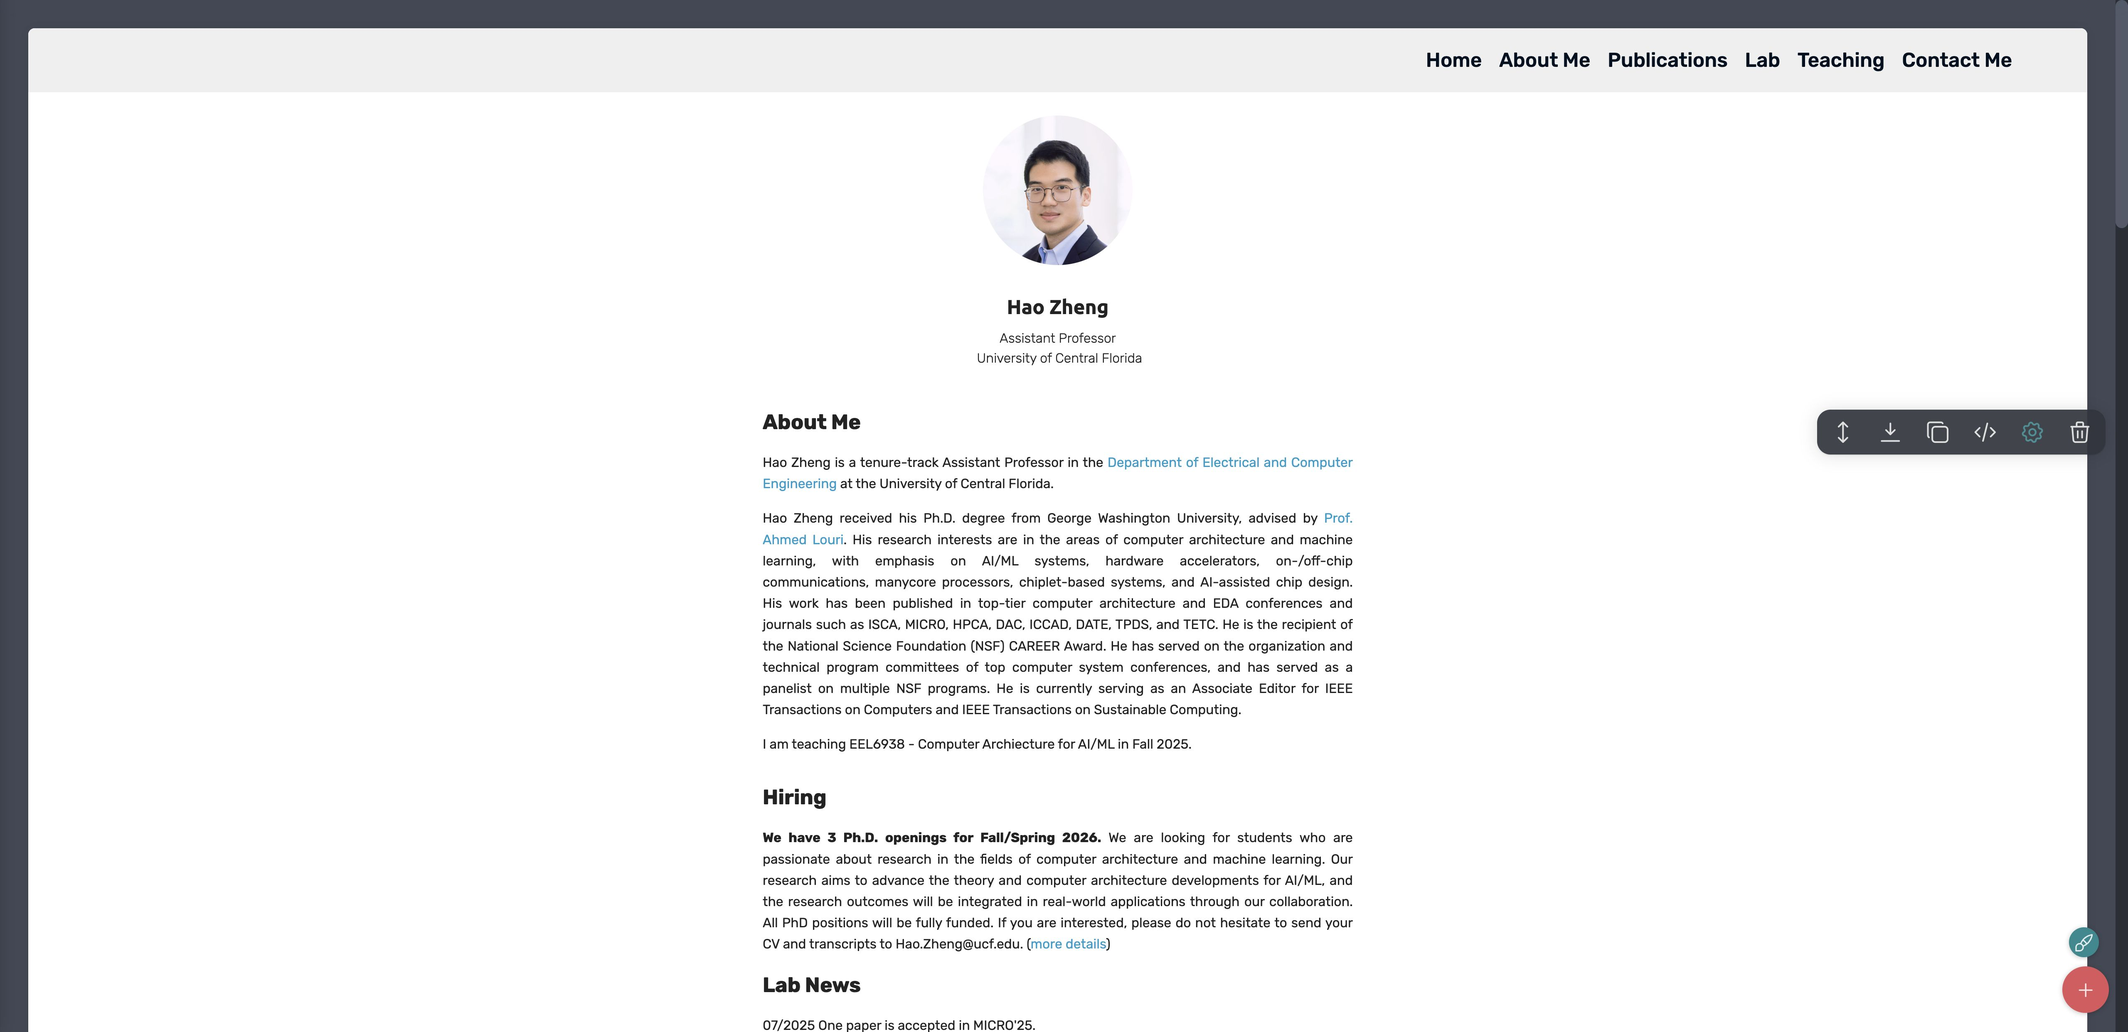
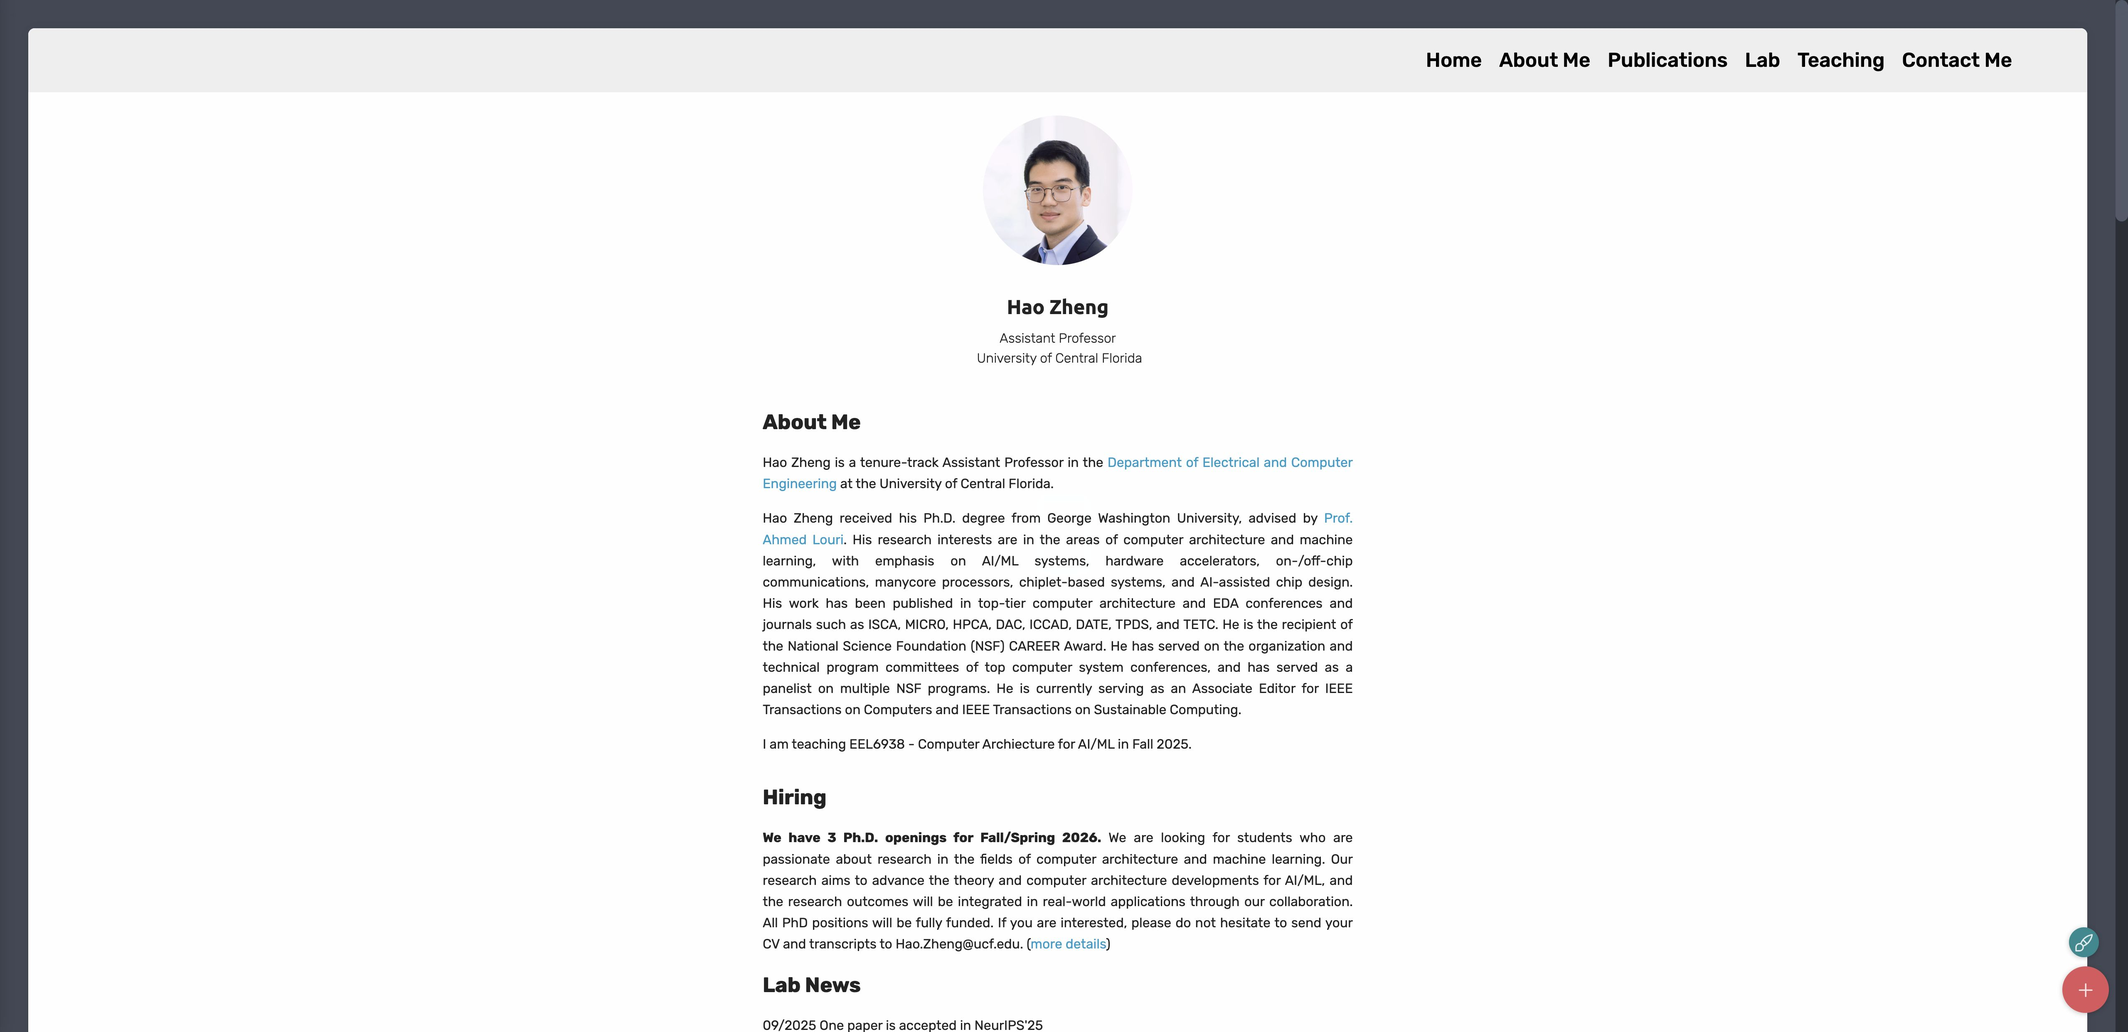
v3.9.8

Changed region(s): [[0.8438, 0.372, 1.0, 0.465], [0.3438, 0.9919, 0.5, 1.0]]

diff --git a/index.html b/index.html
@@ -22,7 +22,7 @@
   <noscript><link rel="stylesheet" href="https://fonts.googleapis.com/css?family=Ubuntu:300,300i,400,400i,500,500i,700,700i&display=swap"></noscript>
   <link rel="preload" href="https://fonts.googleapis.com/css?family=Rubik:300,400,500,600,700,800,900,300i,400i,500i,600i,700i,800i,900i&display=swap" as="style" onload="this.onload=null;this.rel='stylesheet'">
   <noscript><link rel="stylesheet" href="https://fonts.googleapis.com/css?family=Rubik:300,400,500,600,700,800,900,300i,400i,500i,600i,700i,800i,900i&display=swap"></noscript>
-  <link rel="preload" as="style" href="assets/mobirise/css/mbr-additional.css?v=S4XTxj"><link rel="stylesheet" href="assets/mobirise/css/mbr-additional.css?v=S4XTxj" type="text/css">
+  <link rel="preload" as="style" href="assets/mobirise/css/mbr-additional.css?v=RoHz3v"><link rel="stylesheet" href="assets/mobirise/css/mbr-additional.css?v=RoHz3v" type="text/css">
 
   
   
@@ -157,7 +157,7 @@
 
     <div class="container">
         <div class="media-container-row">
-            <div class="mbr-text col-12 mbr-fonts-style display-7 col-md-8" style="text-align: justify;"><p style="font-size:25px"><strong>Selected Publications</strong></p><p><strong style="font-size: 1rem;">[NeurIPS'25]</strong><span style="font-size: 1rem;"> Amir Ghazizadeh Ahsaei, Rickard Ewetz, Hao Zheng “GAMMA: Gated Multi-hop Message Passing for Homophily-Agnostic Node Representation in GNNs”, in Proceedings of Annual Conference on Neural Information Processing Systems (NeurIPS), San Diego, CA, December 2-7, 2025.</span></p><p><strong style="font-size: 1rem;">[MICRO'25] </strong><span style="font-size: 1rem;">Amir Ghazizadeh Ahsaei</span><span style="font-size: 1rem;">, Lingxiang Yin, Shilin Tian, Fangzhou Ye, Fan Yao, Hao Zheng “Rethinking Tiling and Dataflow for SpMM Acceleration: A Graph Transformation Framework”, in Proceedings of IEEE/ACM International Symposium on Microarchitecture (MICRO), Seoul, South Korea, October 2025.</span></p><p><strong style="font-size: 1rem;">[ISCA'25] </strong><span style="font-size: 1rem;">Jiaqi Yang, Hao Zheng, and Ahmed Louri, “DiTile-DGNN: An Efficient Accelerator for Distributed Dynamic Graph Neural Network Inference”, in Proceedings of ACM/IEEE International Symposium on Computer Architecture (ISCA), Tokyo, Japan, June 2025.</span></p><p><strong style="font-size: 1rem;">[HPCA'25] </strong><span style="font-size: 1rem;">Jiaqi Yang, Hao Zheng, and Ahmed Louri,</span><span style="font-size: 1rem;">&nbsp;“I-DGNN: A Graph Dissimilarity-based Framework for Designing Scalable and Efficient DGNN Accelerators”, in Proceedings of IEEE International Symposium on High-Performance Computer Architecture (HPCA), Las Vegas, NV, March 2025.</span></p><p><strong style="font-size: 1rem;">[MICRO'24] </strong><span style="font-size: 1rem;">Lingxiang Yin, Sanjay Gandham, Mingjie Lin, Hao Zheng, “SCALE: A Structure-Centric Accelerator for Message Passing Graph Neural Networks”, in Proceedings of IEEE/ACM International Symposium on Microarchitecture (MICRO), Austin, Texas, November 2-6, 2024.&nbsp;</span></p><p><span style="font-size: 1rem;"><strong>[ICCAD'24]</strong> Sanjay Gandham, Joe Walston, Sourav Samanta, Lingxiang Yin, Hao Zheng, Mingjie Lin, Stelios Diamantidis, "CircuitSeer: RTL Post-PnR Delay Prediction via Coupling Functional and Structural Representation", in Proceedings of ACM/IEEE International Conference on Computer-Aided Design (ICCAD), New Jersey, USA, Oct 27-21, 2024.&nbsp;</span></p><p><span style="font-size: 1rem;"><strong>[DAC'24]</strong> Fangzhou Ye, Lingxiang Yin, Amir Ghazizadeh Ahsaei, Hao Zheng "EGMA: Enhancing Data Reuse and Workload Balancing in Message Passing GNN Acceleration via Gram Matrix Optimization", in Proceedings of 61th Design Automation Conference (DAC’24), San Francisco, June 23-27, 2024.&nbsp;</span></p><p><span style="font-size: 1rem;"><strong>[DAC'24] </strong>Shilin Tian, Chase Szafranski, Ce Zheng, Fan Yao, Ahmed Louri,  Chen Chen, Hao Zheng "VITA: ViT Acceleration for Efficient 3D Human Mesh Recovery via Hardware-Algorithm Co-Design", in Proceedings of 61th Design Automation Conference (DAC’24), San Francisco, June 23-27, 2024.&nbsp;</span></p><p><strong style="font-size: 1rem;">[ICCAD'23] </strong><span style="font-size: 1rem;">Lingxiang Yin, Amir Ghazizadeh, Ahmed Louri, Hao Zheng, "ARIES: Accelerating Distributed Training in Chiplet-based Systems via Flexible Interconnects", &nbsp;in Proceedings of International Conference on Computer-Aided Design (ICCAD), San Francisco, CA, October 29 - November 2, 2023.&nbsp;</span></p><p><strong style="font-size: 1rem;">[ICCAD'23]&nbsp;</strong><span style="font-size: 1rem;">Sanjay Gandham*, Lingxiang Yin*, Hao Zheng, Mingjie Lin, ''SAGA: Sparsity-Agnostic Graph Convolutional Network Acceleration with Near-optimal Workload Balance", &nbsp;in Proceedings of International Conference on Computer-Aided Design (ICCAD), San Francisco, CA, October 29 - November 2, 2023. &nbsp;(* Co-first Authors)</span></p><p><span style="font-size: 1rem;"><strong>[ICCAD'23]</strong> Muhammad Rashedul Haq Rashed, Sven Thijssen, Hao Zheng, Sumit Kumar Jha, Rickard Ewetz, ''Path-based Processing using In-Memory Systolic Arrays for Accelerating Data-Intensive Applications", in proceedings of International Conference on Computer-Aided Design (ICCAD), San Francisco, CA, October 29 - November 2, 2023.</span></p><p><strong style="font-size: 1rem;">[DAC'23] </strong><span style="font-size: 1rem;">Jiaqi Yang,</span><strong style="font-size: 1rem;">&nbsp;</strong><span style="font-size: 1rem;">Hao Zheng, and Ahmed Louri, “Venus: A Versatile Deep Neural Network Accelerator Architecture Design for Multiple Applications,” in Proceedings of 60th Design Automation Conference (DAC’23), San Francisco, July 9-13, 2023.</span><br></p><p><span style="font-size: 1rem;"><strong>[ISCA'23]</strong> Jiajun Li, Yuxuan Zhang, Hao Zheng, and Ke Wang, “ FDMAX: An Elastic Accelerator Architecture for Solving Partial Differential Equations,” &nbsp;in Proceedings of 50th International Symposium on Computer Architecture (ISCA'50), Orlando, FL, June 17–21, 2023.</span></p><p><strong>[HPCA'21] </strong>Hao Zheng, Ke Wang, and Ahmed Louri, "Adapt-NoC: A Flexible Network-on-Chip Design for Heterogeneous Manycore Architecture", in Proceedings of the 27th IEEE International Symposium on High-Performance Computer Architecture (HPCA'21), Seoul, South Korea, Feb. 27 - Mar. 3, 2021.</p><p><strong>[DAC'20]</strong> Hao Zheng, Ke Wang and Ahmed Louri, “A Versatile and Flexible Chiplet-based System Design for Heterogeneous Manycore Architectures,” in Proceedings of 57th Design Automation Conference (DAC’20), Virtual Conference, July 19-23, 2020.</p><p><strong>[DAC'19]</strong> Hao Zheng and Ahmed Louri, “An Energy-Efficient Network-on-Chip Design using Reinforcement Learning,” in Proceedings of 56th Design Automation Conference (DAC’19), Las Vegas, NV, June 2-6, 2019.</p></div>
+            <div class="mbr-text col-12 mbr-fonts-style display-7 col-md-8" style="text-align: justify;"><p style="font-size:25px"><strong>Selected Publications</strong></p><p><strong style="font-size: 1rem;">[NeurIPS'25]</strong><span style="font-size: 1rem;"> Amir Ghazizadeh Ahsaei, Rickard Ewetz, Hao Zheng “GAMMA: Gated Multi-hop Message Passing for Homophily-Agnostic Node Representation in GNNs”, in Proceedings of Annual Conference on Neural Information Processing Systems (NeurIPS), San Diego, CA, December 2-7, 2025.</span></p><p><strong style="font-size: 1rem;">[MICRO'25] </strong><span style="font-size: 1rem;">Amir Ghazizadeh Ahsaei</span><span style="font-size: 1rem;">, Lingxiang Yin, Shilin Tian, Fangzhou Ye, Fan Yao, Hao Zheng “Rethinking Tiling and Dataflow for SpMM Acceleration: A Graph Transformation Framework”, in Proceedings of IEEE/ACM International Symposium on Microarchitecture (MICRO), Seoul, South Korea, October 2025.</span></p><p><strong style="font-size: 1rem;">[ISCA'25] </strong><span style="font-size: 1rem;">Jiaqi Yang, Hao Zheng, and Ahmed Louri, “DiTile-DGNN: An Efficient Accelerator for Distributed Dynamic Graph Neural Network Inference”, in Proceedings of ACM/IEEE International Symposium on Computer Architecture (ISCA), Tokyo, Japan, June 2025.</span></p><p><strong style="font-size: 1rem;">[HPCA'25] </strong><span style="font-size: 1rem;">Jiaqi Yang, Hao Zheng, and Ahmed Louri,</span><span style="font-size: 1rem;">&nbsp;“I-DGNN: A Graph Dissimilarity-based Framework for Designing Scalable and Efficient DGNN Accelerators”, in Proceedings of IEEE International Symposium on High-Performance Computer Architecture (HPCA), Las Vegas, NV, March 2025.</span></p><p><strong style="font-size: 1rem;">[MICRO'24] </strong><span style="font-size: 1rem;">Lingxiang Yin, Sanjay Gandham, Mingjie Lin, Hao Zheng, “SCALE: A Structure-Centric Accelerator for Message Passing Graph Neural Networks”, in Proceedings of IEEE/ACM International Symposium on Microarchitecture (MICRO), Austin, Texas, November 2-6, 2024.&nbsp;</span></p><p><span style="font-size: 1rem;"><strong>[ICCAD'24]</strong> Sanjay Gandham, Joe Walston, Sourav Samanta, Lingxiang Yin, Hao Zheng, Mingjie Lin, Stelios Diamantidis, "CircuitSeer: RTL Post-PnR Delay Prediction via Coupling Functional and Structural Representation", in Proceedings of ACM/IEEE International Conference on Computer-Aided Design (ICCAD), New Jersey, USA, Oct 27-21, 2024.&nbsp;</span></p><p><span style="font-size: 1rem;"><strong>[ISCA'24] </strong> Md Hafizul Chowdhuryy, Hao Zheng and Fan Yao, "MetaLeak: Uncovering Side Channels in Secure Memory Architectures Exploiting Metadata", in Proceedings of 51th International Symposium on Computer Architecture (ISCA'24), Buenos Aires, Argentina, June 29–July 3, 2024.&nbsp;</span></p><p><span style="font-size: 1rem;"><strong>[DAC'24]</strong> Fangzhou Ye, Lingxiang Yin, Amir Ghazizadeh Ahsaei, Hao Zheng "EGMA: Enhancing Data Reuse and Workload Balancing in Message Passing GNN Acceleration via Gram Matrix Optimization", in Proceedings of 61th Design Automation Conference (DAC’24), San Francisco, June 23-27, 2024.&nbsp;</span></p><p><span style="font-size: 1rem;"><strong>[DAC'24] </strong>Shilin Tian, Chase Szafranski, Ce Zheng, Fan Yao, Ahmed Louri,  Chen Chen, Hao Zheng "VITA: ViT Acceleration for Efficient 3D Human Mesh Recovery via Hardware-Algorithm Co-Design", in Proceedings of 61th Design Automation Conference (DAC’24), San Francisco, June 23-27, 2024.&nbsp;</span></p><p><strong style="font-size: 1rem;">[ICCAD'23] </strong><span style="font-size: 1rem;">Lingxiang Yin, Amir Ghazizadeh, Ahmed Louri, Hao Zheng, "ARIES: Accelerating Distributed Training in Chiplet-based Systems via Flexible Interconnects", &nbsp;in Proceedings of International Conference on Computer-Aided Design (ICCAD), San Francisco, CA, October 29 - November 2, 2023.&nbsp;</span></p><p><strong style="font-size: 1rem;">[ICCAD'23]&nbsp;</strong><span style="font-size: 1rem;">Sanjay Gandham*, Lingxiang Yin*, Hao Zheng, Mingjie Lin, ''SAGA: Sparsity-Agnostic Graph Convolutional Network Acceleration with Near-optimal Workload Balance", &nbsp;in Proceedings of International Conference on Computer-Aided Design (ICCAD), San Francisco, CA, October 29 - November 2, 2023. &nbsp;(* Co-first Authors)</span></p><p><span style="font-size: 1rem;"><strong>[ICCAD'23]</strong> Muhammad Rashedul Haq Rashed, Sven Thijssen, Hao Zheng, Sumit Kumar Jha, Rickard Ewetz, ''Path-based Processing using In-Memory Systolic Arrays for Accelerating Data-Intensive Applications", in proceedings of International Conference on Computer-Aided Design (ICCAD), San Francisco, CA, October 29 - November 2, 2023.</span></p><p><strong style="font-size: 1rem;">[DAC'23] </strong><span style="font-size: 1rem;">Jiaqi Yang,</span><strong style="font-size: 1rem;">&nbsp;</strong><span style="font-size: 1rem;">Hao Zheng, and Ahmed Louri, “Venus: A Versatile Deep Neural Network Accelerator Architecture Design for Multiple Applications,” in Proceedings of 60th Design Automation Conference (DAC’23), San Francisco, July 9-13, 2023.</span><br></p><p><span style="font-size: 1rem;"><strong>[ISCA'23]</strong> Jiajun Li, Yuxuan Zhang, Hao Zheng, and Ke Wang, “ FDMAX: An Elastic Accelerator Architecture for Solving Partial Differential Equations,” &nbsp;in Proceedings of 50th International Symposium on Computer Architecture (ISCA'50), Orlando, FL, June 17–21, 2023.</span></p><p><strong>[HPCA'21] </strong>Hao Zheng, Ke Wang, and Ahmed Louri, "Adapt-NoC: A Flexible Network-on-Chip Design for Heterogeneous Manycore Architecture", in Proceedings of the 27th IEEE International Symposium on High-Performance Computer Architecture (HPCA'21), Seoul, South Korea, Feb. 27 - Mar. 3, 2021.</p><p><strong>[DAC'20]</strong> Hao Zheng, Ke Wang and Ahmed Louri, “A Versatile and Flexible Chiplet-based System Design for Heterogeneous Manycore Architectures,” in Proceedings of 57th Design Automation Conference (DAC’20), Virtual Conference, July 19-23, 2020.</p><p><strong>[DAC'19]</strong> Hao Zheng and Ahmed Louri, “An Energy-Efficient Network-on-Chip Design using Reinforcement Learning,” in Proceedings of 56th Design Automation Conference (DAC’19), Las Vegas, NV, June 2-6, 2019.</p></div>
         </div>
     </div>
 </section>
@@ -217,7 +217,7 @@
     <div class="container">
         <div class="row">
             <div class="col-md-6">
-                <div class="google-map"><iframe frameborder="0" style="border:0" src="https://www.google.com/maps/embed/v1/place?key=AIzaSyBQ55g-IgRRgXrd803PTWDTb7kd6aAitNQ&amp;q=4328 Scorpius Street, Orlando, Florida, 32816-2362 " allowfullscreen=""></iframe></div>
+                <div class="google-map"><iframe frameborder="0" style="border:0" src="https://www.google.com/maps/embed/v1/place?key=AIzaSyB7QWkvlxV39ZsyKvhZRjPGVqlJFvxxNkw&amp;q=4328 Scorpius Street, Orlando, Florida, 32816-2362 " allowfullscreen=""></iframe></div>
             </div>
             <div class="col-md-6">
                 
@@ -233,7 +233,7 @@
                 </div>
                 <div data-form-type="formoid">
                     <!---Formbuilder Form--->
-                    <form action="https://mobirise.eu/" method="POST" class="mbr-form form-with-styler" data-form-title="Mobirise Form"><input type="hidden" name="email" data-form-email="true" value="e+DTwQDPiriVhKSz9FIYmq10Oea4nCp7rJ/+Mijt9XAIOx+cCiwA1Rliy49MVBCcmIsROfAfMf8iQvgmG/s33ZIsNreOdEPU5ajpIK+tByjp1z88UgrLXPoMYEcmENTa.OwY3YnwlIrcGP33m0GplwaMEXbtY9SaBvejg0xjohGf346xf/Npz+IsMXEgaWlPgD0zNv/mR4Qcm02TV4X1Df8YvKU3yocdhBrbN6YM+HIent2AaBxFPx93h7jb7i2Ci">
+                    <form action="https://mobirise.eu/" method="POST" class="mbr-form form-with-styler" data-form-title="Mobirise Form"><input type="hidden" name="email" data-form-email="true" value="5jq564ntu+Ueo+Tv21k4o9XlZLPRJztMa0D/Kwz8cze1ftOGQFW9eoKNq6gttNfLmBgi+fGHt5izegeEBhs7r0iU2K1aL0Wn3nEyxGBXTwnaARFxa6gf1FCFlEUceB8p.b877gChSMxlIuTSwhu+Rv5Cq3rchtuFIy3WRQRF+wxx/kiUzwNA8qPd/amLPFunfpSowmUVuCaX6weWKNqSXySumZAiRBWQTU5Kwmc/0Vs5WUMq/aI9xrLmbFhMkRYzz">
                         <div class="row">
                             <div hidden="hidden" data-form-alert="" class="alert alert-success col-12">Thanks for filling out the form!</div>
                             <div hidden="hidden" data-form-alert-danger="" class="alert alert-danger col-12">

diff --git a/News.html b/News.html
@@ -22,7 +22,7 @@
   <noscript><link rel="stylesheet" href="https://fonts.googleapis.com/css?family=Ubuntu:300,300i,400,400i,500,500i,700,700i&display=swap"></noscript>
   <link rel="preload" href="https://fonts.googleapis.com/css?family=Rubik:300,400,500,600,700,800,900,300i,400i,500i,600i,700i,800i,900i&display=swap" as="style" onload="this.onload=null;this.rel='stylesheet'">
   <noscript><link rel="stylesheet" href="https://fonts.googleapis.com/css?family=Rubik:300,400,500,600,700,800,900,300i,400i,500i,600i,700i,800i,900i&display=swap"></noscript>
-  <link rel="preload" as="style" href="assets/mobirise/css/mbr-additional.css?v=mMV5vt"><link rel="stylesheet" href="assets/mobirise/css/mbr-additional.css?v=mMV5vt" type="text/css">
+  <link rel="preload" as="style" href="assets/mobirise/css/mbr-additional.css?v=W720LU"><link rel="stylesheet" href="assets/mobirise/css/mbr-additional.css?v=W720LU" type="text/css">
 
   
   

diff --git a/Publications.html b/Publications.html
@@ -22,7 +22,7 @@
   <noscript><link rel="stylesheet" href="https://fonts.googleapis.com/css?family=Ubuntu:300,300i,400,400i,500,500i,700,700i&display=swap"></noscript>
   <link rel="preload" href="https://fonts.googleapis.com/css?family=Rubik:300,400,500,600,700,800,900,300i,400i,500i,600i,700i,800i,900i&display=swap" as="style" onload="this.onload=null;this.rel='stylesheet'">
   <noscript><link rel="stylesheet" href="https://fonts.googleapis.com/css?family=Rubik:300,400,500,600,700,800,900,300i,400i,500i,600i,700i,800i,900i&display=swap"></noscript>
-  <link rel="preload" as="style" href="assets/mobirise/css/mbr-additional.css?v=r4xbSb"><link rel="stylesheet" href="assets/mobirise/css/mbr-additional.css?v=r4xbSb" type="text/css">
+  <link rel="preload" as="style" href="assets/mobirise/css/mbr-additional.css?v=6EMoN8"><link rel="stylesheet" href="assets/mobirise/css/mbr-additional.css?v=6EMoN8" type="text/css">
 
   
   

diff --git a/lab.html b/lab.html
@@ -23,7 +23,7 @@
   <noscript><link rel="stylesheet" href="https://fonts.googleapis.com/css?family=Ubuntu:300,300i,400,400i,500,500i,700,700i&display=swap"></noscript>
   <link rel="preload" href="https://fonts.googleapis.com/css?family=Rubik:300,400,500,600,700,800,900,300i,400i,500i,600i,700i,800i,900i&display=swap" as="style" onload="this.onload=null;this.rel='stylesheet'">
   <noscript><link rel="stylesheet" href="https://fonts.googleapis.com/css?family=Rubik:300,400,500,600,700,800,900,300i,400i,500i,600i,700i,800i,900i&display=swap"></noscript>
-  <link rel="preload" as="style" href="assets/mobirise/css/mbr-additional.css?v=ZdkbsL"><link rel="stylesheet" href="assets/mobirise/css/mbr-additional.css?v=ZdkbsL" type="text/css">
+  <link rel="preload" as="style" href="assets/mobirise/css/mbr-additional.css?v=YLwSTr"><link rel="stylesheet" href="assets/mobirise/css/mbr-additional.css?v=YLwSTr" type="text/css">
 
   
   

diff --git a/personal.html b/personal.html
@@ -23,7 +23,7 @@
   <noscript><link rel="stylesheet" href="https://fonts.googleapis.com/css?family=Ubuntu:300,300i,400,400i,500,500i,700,700i&display=swap"></noscript>
   <link rel="preload" href="https://fonts.googleapis.com/css?family=Rubik:300,400,500,600,700,800,900,300i,400i,500i,600i,700i,800i,900i&display=swap" as="style" onload="this.onload=null;this.rel='stylesheet'">
   <noscript><link rel="stylesheet" href="https://fonts.googleapis.com/css?family=Rubik:300,400,500,600,700,800,900,300i,400i,500i,600i,700i,800i,900i&display=swap"></noscript>
-  <link rel="preload" as="style" href="assets/mobirise/css/mbr-additional.css?v=S8hdwE"><link rel="stylesheet" href="assets/mobirise/css/mbr-additional.css?v=S8hdwE" type="text/css">
+  <link rel="preload" as="style" href="assets/mobirise/css/mbr-additional.css?v=WGKS5x"><link rel="stylesheet" href="assets/mobirise/css/mbr-additional.css?v=WGKS5x" type="text/css">
 
   
   

diff --git a/research.html b/research.html
@@ -22,7 +22,7 @@
   <noscript><link rel="stylesheet" href="https://fonts.googleapis.com/css?family=Ubuntu:300,300i,400,400i,500,500i,700,700i&display=swap"></noscript>
   <link rel="preload" href="https://fonts.googleapis.com/css?family=Rubik:300,400,500,600,700,800,900,300i,400i,500i,600i,700i,800i,900i&display=swap" as="style" onload="this.onload=null;this.rel='stylesheet'">
   <noscript><link rel="stylesheet" href="https://fonts.googleapis.com/css?family=Rubik:300,400,500,600,700,800,900,300i,400i,500i,600i,700i,800i,900i&display=swap"></noscript>
-  <link rel="preload" as="style" href="assets/mobirise/css/mbr-additional.css?v=hkPdZf"><link rel="stylesheet" href="assets/mobirise/css/mbr-additional.css?v=hkPdZf" type="text/css">
+  <link rel="preload" as="style" href="assets/mobirise/css/mbr-additional.css?v=vTaLea"><link rel="stylesheet" href="assets/mobirise/css/mbr-additional.css?v=vTaLea" type="text/css">
 
   
   

diff --git a/teaching.html b/teaching.html
@@ -22,7 +22,7 @@
   <noscript><link rel="stylesheet" href="https://fonts.googleapis.com/css?family=Ubuntu:300,300i,400,400i,500,500i,700,700i&display=swap"></noscript>
   <link rel="preload" href="https://fonts.googleapis.com/css?family=Rubik:300,400,500,600,700,800,900,300i,400i,500i,600i,700i,800i,900i&display=swap" as="style" onload="this.onload=null;this.rel='stylesheet'">
   <noscript><link rel="stylesheet" href="https://fonts.googleapis.com/css?family=Rubik:300,400,500,600,700,800,900,300i,400i,500i,600i,700i,800i,900i&display=swap"></noscript>
-  <link rel="preload" as="style" href="assets/mobirise/css/mbr-additional.css?v=NcqzbA"><link rel="stylesheet" href="assets/mobirise/css/mbr-additional.css?v=NcqzbA" type="text/css">
+  <link rel="preload" as="style" href="assets/mobirise/css/mbr-additional.css?v=mu0rPO"><link rel="stylesheet" href="assets/mobirise/css/mbr-additional.css?v=mu0rPO" type="text/css">
 
   
   
